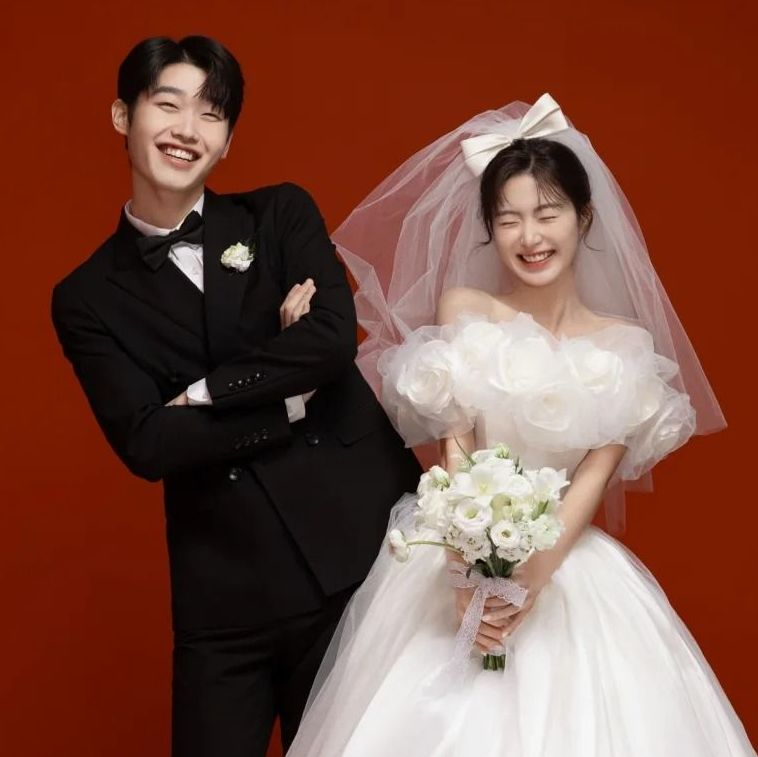
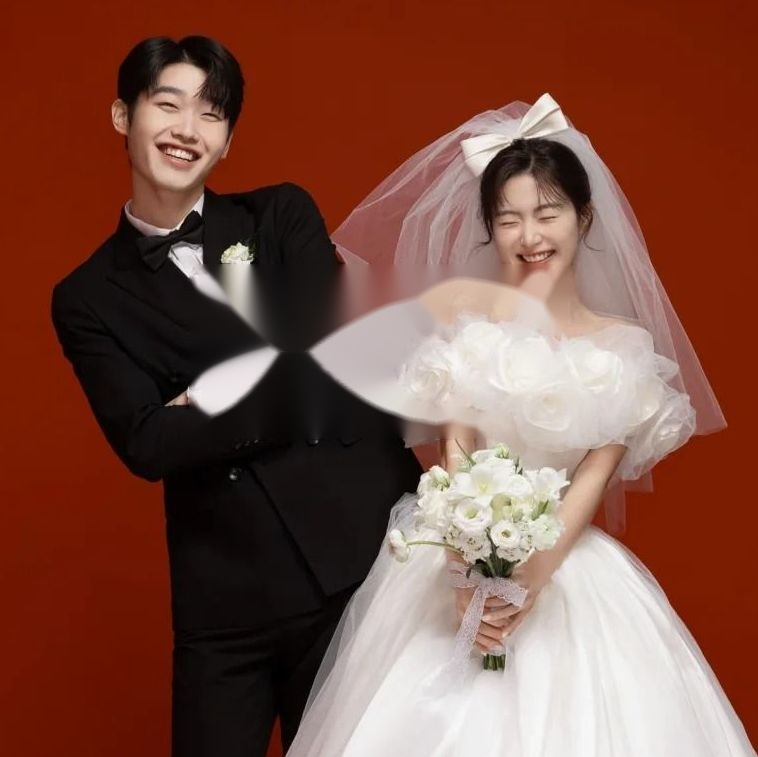
fix(editor): inpaint baked-in text and dynamically position live couple names for Cinelove templates

Changed region(s): [[0.2427, 0.3342, 0.7586, 0.5773], [0.3641, 0.5165, 0.4248, 0.5773]]

diff --git a/src/components/wedding-layouts/traditional-layout.tsx b/src/components/wedding-layouts/traditional-layout.tsx
@@ -50,6 +50,10 @@ export const TraditionalLayout: React.FC<TraditionalLayoutProps> = ({
   const [showAllPhotos, setShowAllPhotos] = React.useState(false);
   const displayCardAsset = template.frameAsset;
   const displayPhoto = data.heroPhoto || null;
+  const isCenterCloudStyle =
+    template.id.includes('130') ||
+    template.id.includes('cine-thiep-cuoi-17') ||
+    (displayCardAsset && (displayCardAsset.includes('17') || displayCardAsset.includes('clean_cine') || displayCardAsset.includes('cinelove_thiep-cuoi-17')));
 
   return (
     <div className="bg-[#fff9f5] text-stone-900 min-h-screen font-serif selection:bg-red-200">
@@ -67,39 +71,84 @@ export const TraditionalLayout: React.FC<TraditionalLayoutProps> = ({
             loading="eager"
           />
 
-          {/* Top Double Happiness Badge */}
-          <div
-            className="absolute top-3 sm:top-4 left-1/2 -translate-x-1/2 text-white px-5 py-1 rounded-full text-xs font-bold shadow-lg border flex items-center gap-1.5 z-10"
-            style={{ backgroundColor: activeColor, borderColor: activeAccent }}
-          >
-            <span>囍</span>
-            <span>TRĂM NĂM HẠNH PHÚC</span>
-            <span>囍</span>
-          </div>
+          {/* Top Double Happiness Badge (only for traditional scroll templates that don't have it baked in) */}
+          {!isCenterCloudStyle && (
+            <div
+              className="absolute top-3 sm:top-4 left-1/2 -translate-x-1/2 text-white px-5 py-1 rounded-full text-xs font-bold shadow-lg border flex items-center gap-1.5 z-10"
+              style={{ backgroundColor: activeColor, borderColor: activeAccent }}
+            >
+              <span>囍</span>
+              <span>TRĂM NĂM HẠNH PHÚC</span>
+              <span>囍</span>
+            </div>
+          )}
 
           {/* Live Editable Couple Name (Updates in real time when user edits bride/groom name in editor!) */}
-          <div
-            onClick={() => onEditField?.('couple')}
-            className={`absolute top-[12%] sm:top-[12.5%] left-0 right-0 text-center px-4 z-20 ${
-              onEditField ? 'cursor-pointer' : ''
-            }`}
-            title={onEditField ? 'Nhấp để sửa tên và kiểu chữ' : undefined}
-          >
+          {isCenterCloudStyle ? (
+            /* Center Cloud 3-Line Cursive Name Layout (Matches Media 1790418587623 exact) */
             <div
-              className="inline-flex items-center justify-center gap-1.5 px-3 py-0.5 rounded-lg transition-all font-bold tracking-wider select-none drop-shadow-sm hover:ring-2 hover:ring-sky-400"
-              style={{
-                fontFamily: data.typography?.fontFamily || "'Viaoda Libre', serif",
-                color: data.typography?.color || '#b91c1c',
-                fontSize: `${Math.min(Math.max(data.typography?.fontSize || 22, 16), 28)}px`,
-                letterSpacing: `${data.typography?.letterSpacing || 1}px`,
-                textTransform: (data.typography?.textTransform || 'uppercase') as any
-              }}
+              onClick={() => onEditField?.('couple')}
+              className={`absolute top-[32%] sm:top-[34%] left-0 right-0 text-center px-4 z-20 ${
+                onEditField ? 'cursor-pointer' : ''
+              }`}
+              title={onEditField ? 'Nhấp để sửa tên và kiểu chữ' : undefined}
             >
-              <span>{data.groom.shortName || data.groom.fullName || 'Chú Rể'}</span>
-              <span className="font-normal opacity-85 lowercase text-[1.25em] -translate-y-0.5" style={{ fontFamily: "'The Nautigal', cursive" }}>&amp;</span>
-              <span>{data.bride.shortName || data.bride.fullName || 'Cô Dâu'}</span>
+              <div
+                className={`inline-flex flex-col items-center justify-center transition-all select-none p-2 rounded-xl ${
+                  onEditField ? 'hover:ring-2 hover:ring-sky-400' : ''
+                }`}
+                style={{
+                  fontFamily: data.typography?.fontFamily
+                    ? `'${data.typography.fontFamily}', 'Aquarelle', 'Dancing Script', cursive`
+                    : "'Aquarelle', 'Dancing Script', cursive",
+                  color: data.typography?.color || '#641b24',
+                  fontSize: `${data.typography?.fontSize || 30}px`,
+                  opacity: data.typography?.opacity ?? 1,
+                  textAlign: (data.typography?.textAlign || 'center') as any,
+                  lineHeight: 1.18,
+                  textShadow: '0 1px 3px rgba(255,255,255,0.75)'
+                }}
+              >
+                <span className="block font-bold">
+                  {data.bride.shortName || data.bride.fullName || 'Cô Dâu'}
+                </span>
+                <span
+                  className="block my-0.5 text-[0.85em] font-normal opacity-90"
+                  style={{ fontFamily: "'The Nautigal', 'Dancing Script', cursive" }}
+                >
+                  &amp;
+                </span>
+                <span className="block font-bold">
+                  {data.groom.shortName || data.groom.fullName || 'Chú Rể'}
+                </span>
+              </div>
             </div>
-          </div>
+          ) : (
+            /* Horizontal Plaque Name Layout for Traditional Templates (e.g. Hong Phong, Nhat Binh) */
+            <div
+              onClick={() => onEditField?.('couple')}
+              className={`absolute top-[12%] sm:top-[12.5%] left-0 right-0 text-center px-4 z-20 ${
+                onEditField ? 'cursor-pointer' : ''
+              }`}
+              title={onEditField ? 'Nhấp để sửa tên và kiểu chữ' : undefined}
+            >
+              <div
+                className="inline-flex items-center justify-center gap-1.5 px-3 py-0.5 rounded-lg transition-all font-bold tracking-wider select-none drop-shadow-sm hover:ring-2 hover:ring-sky-400"
+                style={{
+                  fontFamily: data.typography?.fontFamily || "'Viaoda Libre', serif",
+                  color: data.typography?.color || '#b91c1c',
+                  fontSize: `${Math.min(Math.max(data.typography?.fontSize || 22, 16), 28)}px`,
+                  opacity: data.typography?.opacity ?? 1,
+                  letterSpacing: `${data.typography?.letterSpacing || 1}px`,
+                  textTransform: (data.typography?.textTransform || 'uppercase') as any
+                }}
+              >
+                <span>{data.groom.shortName || data.groom.fullName || 'Chú Rể'}</span>
+                <span className="font-normal opacity-85 lowercase text-[1.25em] -translate-y-0.5" style={{ fontFamily: "'The Nautigal', cursive" }}>&amp;</span>
+                <span>{data.bride.shortName || data.bride.fullName || 'Cô Dâu'}</span>
+              </div>
+            </div>
+          )}
         </div>
 
         {/* User Uploaded Photo Spotlight (if provided) */}

diff --git a/src/app/create/page.tsx b/src/app/create/page.tsx
@@ -2469,6 +2469,9 @@ function CreateInvitationContent() {
                 >
                   <option value="Aquarelle">Aquarelle (Cinelove Thư pháp)</option>
                   <option value="Dancing Script">Dancing Script (Chữ ký mềm)</option>
+                  <option value="Viaoda Libre">Viaoda Libre (ZenLove Cổ điển)</option>
+                  <option value="The Nautigal">The Nautigal (Thư pháp nghệ thuật)</option>
+                  <option value="Cormorant Garamond">Cormorant Garamond (Lãng mạn)</option>
                   <option value="Playfair Display">Playfair Display (Hoàng gia)</option>
                   <option value="Lora">Lora (Vogue Thanh lịch)</option>
                   <option value="Pattaya">Pattaya (Bút lông mềm)</option>

diff --git a/src/app/globals.css b/src/app/globals.css
@@ -36,6 +36,14 @@
   font-display: swap;
 }
 
+@font-face {
+  font-family: 'Aquarelle';
+  src: local('Dancing Script'), local('Alex Brush'), url('https://fonts.gstatic.com/s/dancingscript/v25/If2cXTr6YS-zF4S-kcSWSVi_sxjsohD9F50Ruu7BMSo3Rep8ltA.woff2') format('woff2');
+  font-weight: normal;
+  font-style: normal;
+  font-display: swap;
+}
+
 :root {
   --background: #ffffff;
   --foreground: #171717;
